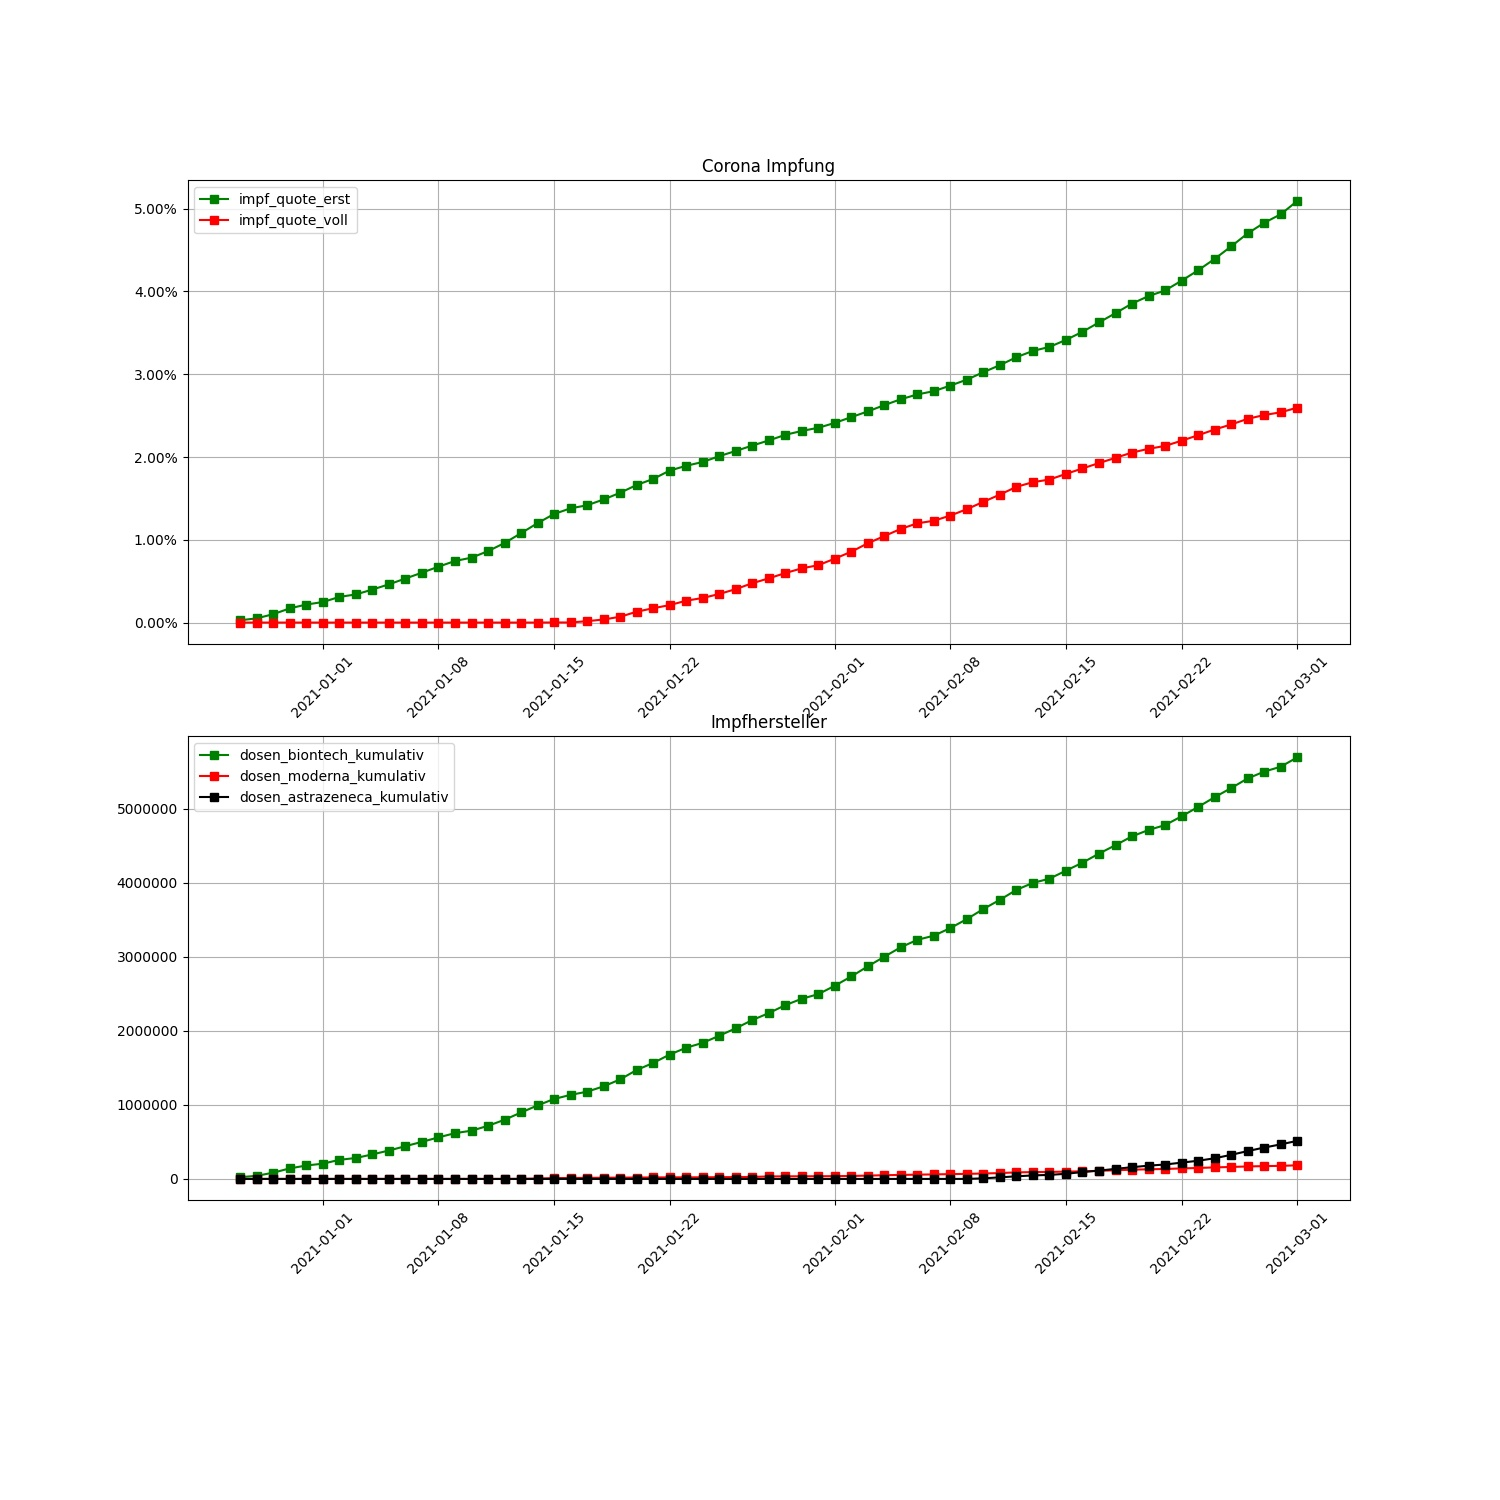
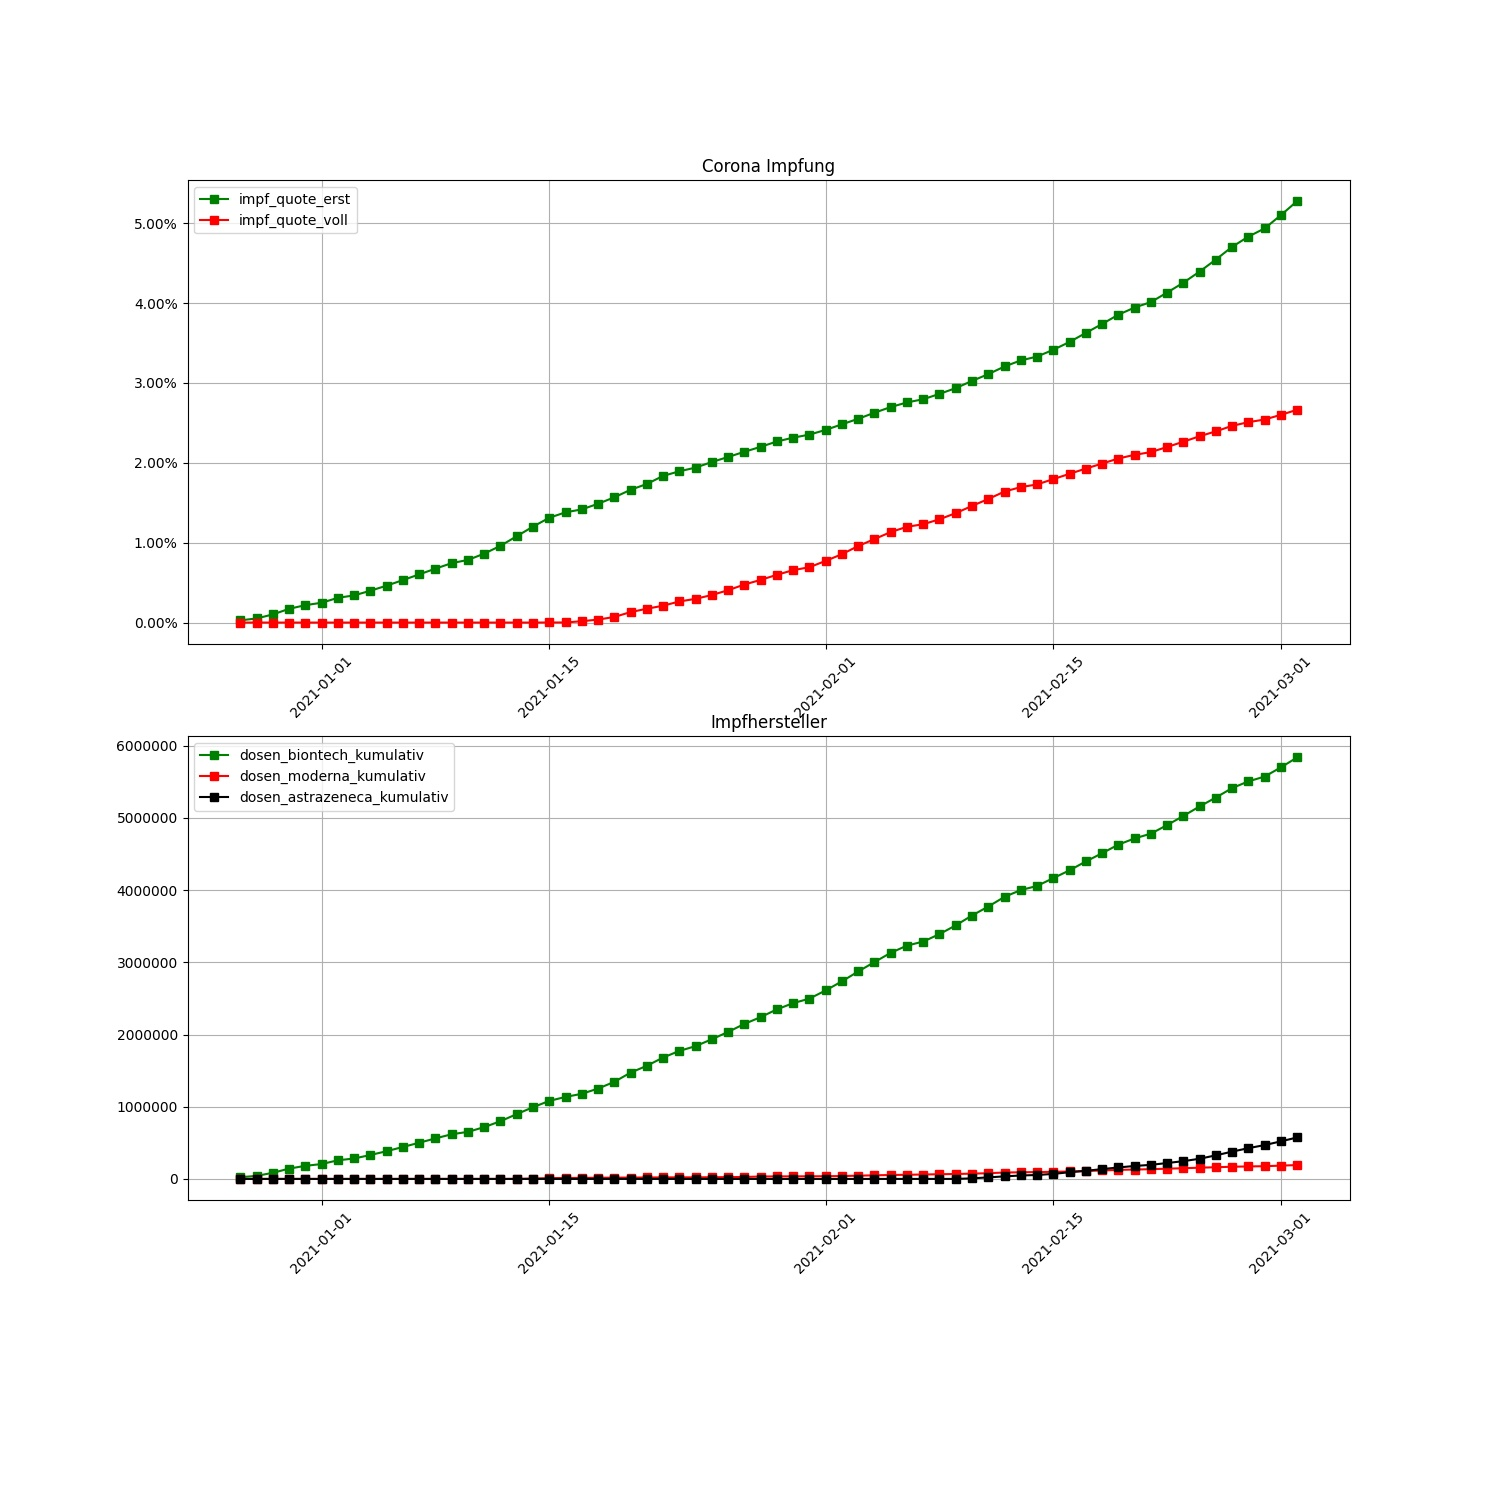
Crontab commit

diff --git a/Readme.md b/Readme.md
@@ -1,19 +1,19 @@
-# Corona vaccine Germany - Stand 2021-03-01
+# Corona vaccine Germany - Stand 2021-03-02
 ## Dashboard by [Simon Hamacher](https://www.shamacher.eu)
 ## Impfstoffe Übersicht
 **Impfstoffhersteller** | **verimpfte Dosen**
 -------- | :--------:
-Biontech | 5696093
-Moderna | 183845
-Astrazeneca | 514426
+Biontech | 5838149
+Moderna | 192011
+Astrazeneca | 574418
 
 
 ## Quoten
-**Total Verimpfte Dosen:** | 6394364
+**Total Verimpfte Dosen:** | 6604578
 -------- | :--------:
-**Erst-Impfquote** | 5.09 %
-**Voll-Impfquote** | 2.60 %
-**Imfungen Durchschnitt** | 98374.83 pro Tag
+**Erst-Impfquote** | 5.28 %
+**Voll-Impfquote** | 2.66 %
+**Imfungen Durchschnitt** | 100069.36 pro Tag
 ## Graphen
 <img src="Impfungen-Corona-01.jpg" alt="Corona-1" title="optionaler Titel" />
 <img src="Impfungen-Corona-02.jpg" alt="Corona-2" title="optionaler Titel" />
